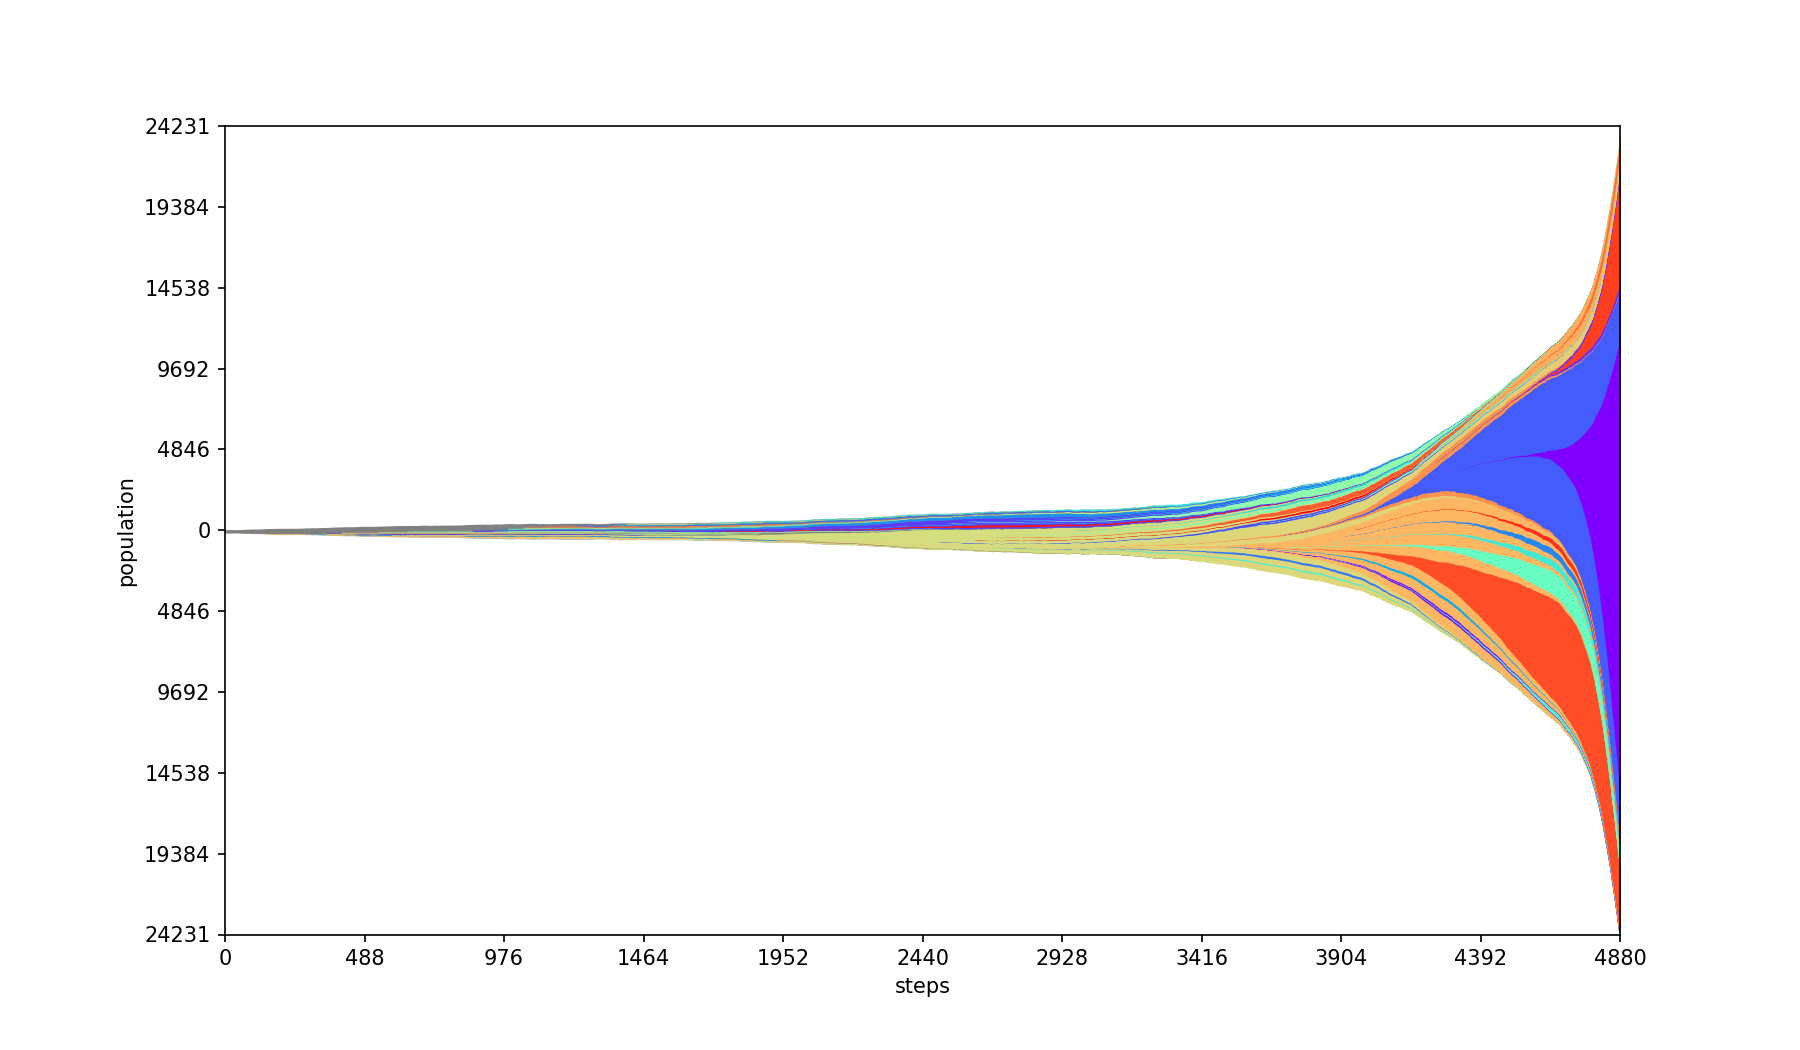
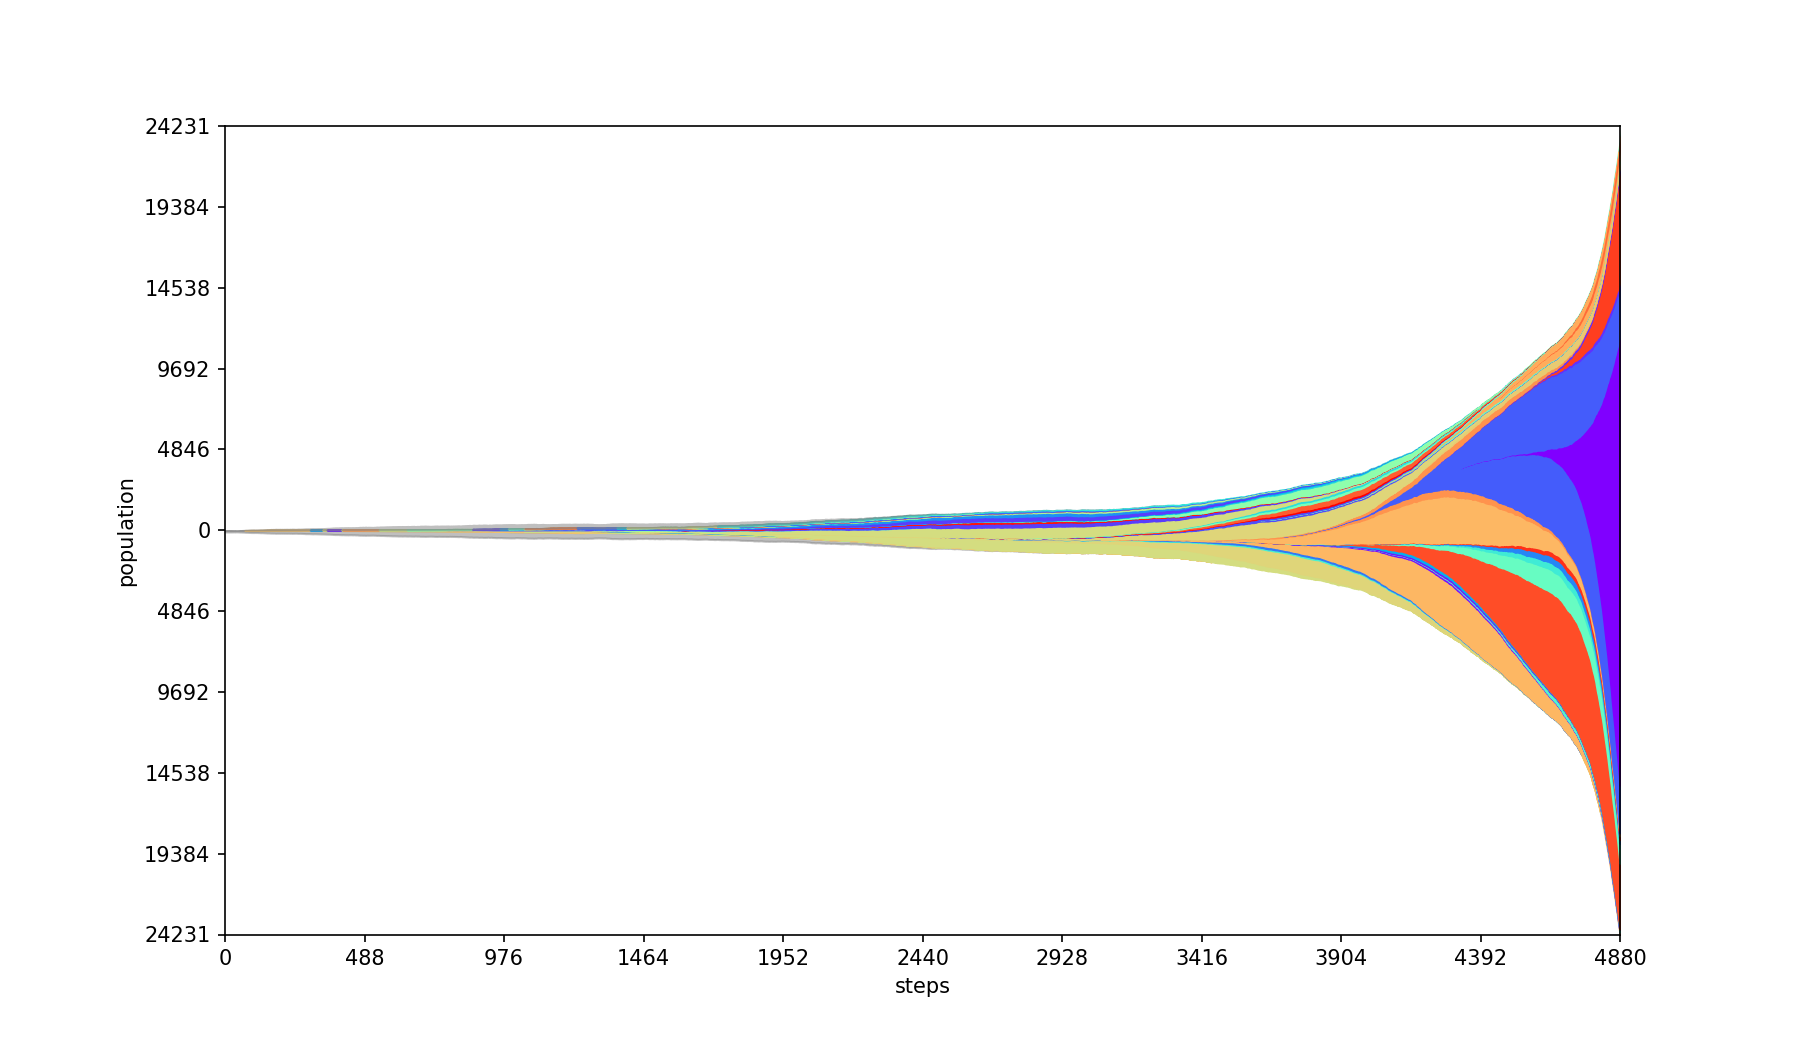
Seperation option added.

diff --git a/pyfish/core.py b/pyfish/core.py
@@ -47,16 +47,34 @@ def _stackplot(x, *args, ax=None, colors=None, labels=(), **kwargs):
 
 
 def _create_ordering(cur_tree, cur_clone):
-    """Create index for population DataFrame.
+    """Create index for population DataFrame (separate mode).
 
     Recursively traverses the parent tree.
-    Build a list such that children are listed between two instances of parent.
+    Build a list such that children are listed between instances of parent,
+    with parent material interleaved between each child.
     """
     res = []
     if cur_clone in cur_tree.keys():
         for child in cur_tree[cur_clone]:
             res += [cur_clone]
             res += _create_ordering(cur_tree, child)
+        res += [cur_clone]
+    else:
+        return [cur_clone]
+    return res
+
+
+def _create_ordering_centered(cur_tree, cur_clone):
+    """Create index for population DataFrame (centered mode).
+
+    Recursively traverses the parent tree.
+    Build a list such that children are listed between two instances of parent.
+    """
+    res = []
+    if cur_clone in cur_tree.keys():
+        res += [cur_clone]
+        for child in cur_tree[cur_clone]:
+            res += _create_ordering_centered(cur_tree, child)
         res += [cur_clone]
     else:
         return [cur_clone]
@@ -116,7 +134,7 @@ def _create_colors(ids, root_id, ordering, seed, cmap_name, pops_df, color_by=No
 
 def process_data(pops_df, parent_df,
                  first_step=None, last_step=None, interpolation=-1, absolute=False, smooth=-1, seed=0,
-                 cmap_name="rainbow", color_by=None):
+                 cmap_name="rainbow", color_by=None, separate=False):
     """Load data required for plotting.
 
     Args:
@@ -129,6 +147,7 @@ def process_data(pops_df, parent_df,
         smooth (int, optional): Window for Gaussian smoothing. Defaults to -1 (no smoothing).
         seed (int, optional): Seed used for coloring. Defaults to 0.
         cmap_name (str, optional): Matplotlib colormap. Defaults to None.
+        separate (bool, optional): Place children equidistant from each other. Defaults to False.
 
     Returns:
         pd.DataFrame: DataFrame with population information
@@ -194,7 +213,8 @@ def process_data(pops_df, parent_df,
     # Build parental relationship
     tree, ids, root_id = _build_tree(parent_df)
     samples = pops_df['Id'].unique()
-    ordering = _create_ordering(tree, -1 if absolute else root_id)
+    ordering_func = _create_ordering if separate else _create_ordering_centered
+    ordering = ordering_func(tree, -1 if absolute else root_id)
     ordering = [x for x in ordering if x in samples or x == -1 and absolute]
 
     pops_stack = pops_table.loc[ordering].astype(float)

diff --git a/pyfish/main.py b/pyfish/main.py
@@ -38,6 +38,8 @@ def run():
                         help="Output image height")
     parser.add_argument("-V", "--curved", dest="curved", action="store_true", default=False,
                         help="Smooth filled areas with curved interpolation.")
+    parser.add_argument("-E", "--separate", dest="separate", action="store_true", default=False,
+                        help="Place children equidistant from each other instead of centered.")
 
     # Read
     args = parser.parse_args()
@@ -48,7 +50,7 @@ def run():
     # Compute
     data = process_data(populations_df, parent_tree_df, args.first_step, args.last_step,
                         args.interpolation, args.absolute, args.smooth, args.seed, args.cmap,
-                        args.color_by)
+                        args.color_by, args.separate)
 
     # Plot
     setup_figure(args.width, args.height, args.absolute)

diff --git a/tests/generate_doc_images.py b/tests/generate_doc_images.py
@@ -92,6 +92,11 @@ def generate_all():
     fish_plot(*process_data(test_pops_df, test_tree_df, seed=2022))
     _save("seed.png")
 
+    # separate.png — --separate
+    setup_figure()
+    fish_plot(*process_data(test_pops_df, test_tree_df, separate=True))
+    _save("separate.png")
+
     print(f"Generated images in {DOC_DIR}")
 
 

diff --git a/README.md b/README.md
@@ -203,6 +203,15 @@ Specifies the seed for the randomization of colors.
 |-------------------------------|-----------------------------------|
 | ![Base plot](https://raw.githubusercontent.com/ICCB-Cologne/PyFish/main/doc/base.png) | ![Smoothed plot](https://raw.githubusercontent.com/ICCB-Cologne/PyFish/main/doc/seed.png) |
 
+### `-E, --separate`
+
+Places children equidistant from each other within their parent band.
+By default, children emerge from the center of the parent.
+
+| Base                          | --separate                        |
+|-------------------------------|-----------------------------------|
+| ![Base plot](https://raw.githubusercontent.com/ICCB-Cologne/PyFish/main/doc/base.png) | ![Separate plot](https://raw.githubusercontent.com/ICCB-Cologne/PyFish/main/doc/separate.png) |
+
 ### `-W, --width int+`, `-H, --height int+`
 
 Specifies the dimensions for the output image. The size is including the axes' labels.
